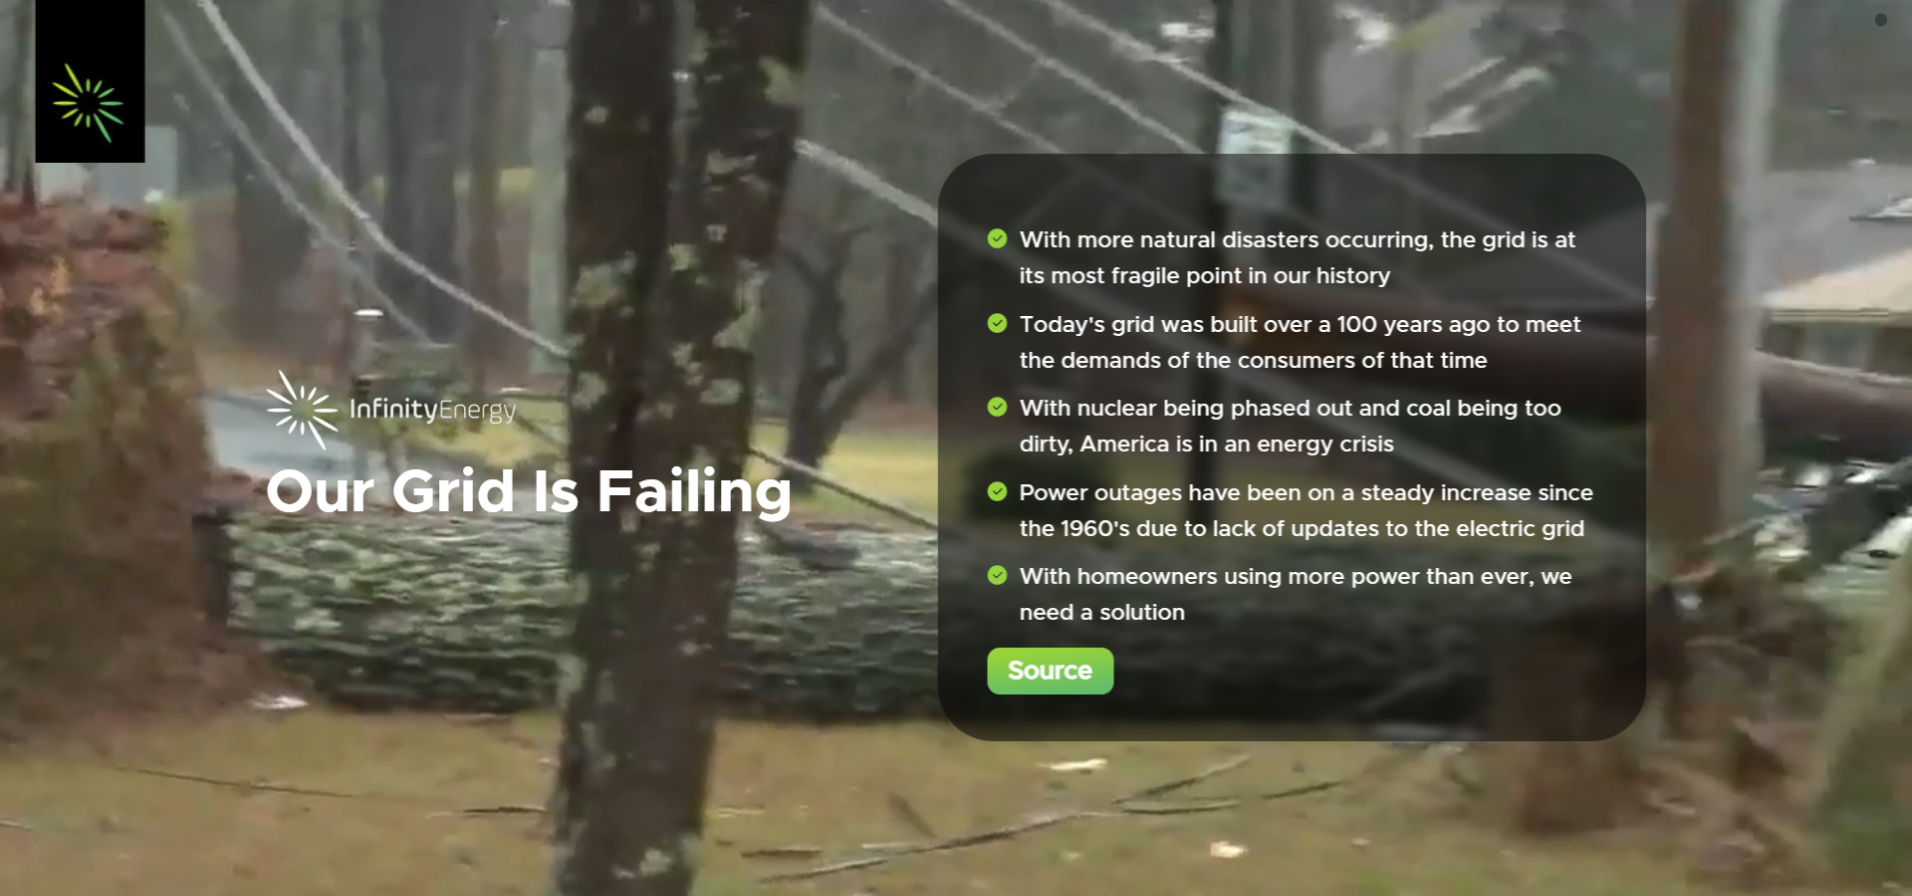
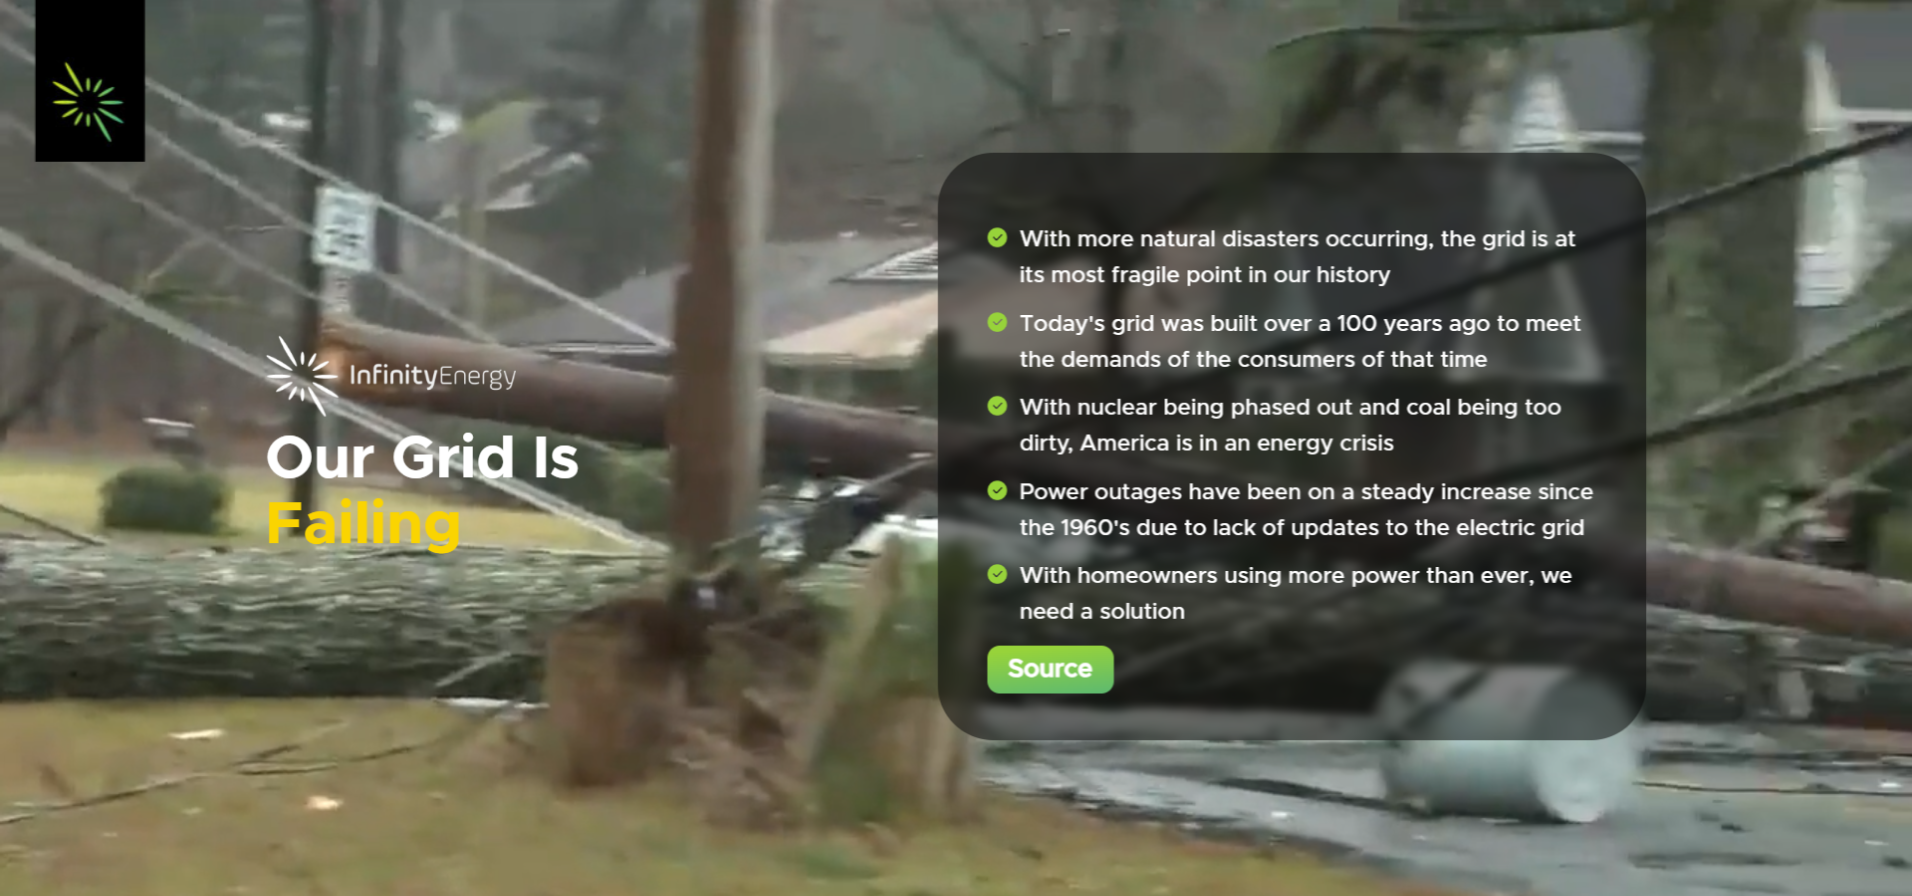
ny-lease-done

diff --git a/proposal-html/mainsolar-ny-lease -backup.html b/proposal-html/mainsolar-ny-lease -backup.html
@@ -63,36 +63,34 @@
     <div class="swiper-wrapper">
       
       <div data-hash="slide1" class="swiper-slide">
-         <section class="slide-8 overflow-hidden nyserda-ny">
+         <section class="slide-19 overflow-hidden has-vector-bg">
             <img class="fav-logo" src="images/fav-logo.jpg" alt="fav-logo">
             <div class="container">
                <div class="row">
-                  <div class="col-lg-8 DownToUp" style="margin:auto;">
-                     <h1 class="main-heading text-xl font-bold text-white text-center mb-20">NYSERDA</h1>
-                     <div class="card card-s2 BottomToTop">
-                        <div class="bg-white card-inner">
-                           <div class="row mb-20">
-                              <div class="col-md-12">
-                                 <img src="images/infinity-energy.png" alt="logo" style="max-width: 200px;">
-                                 <p class="mb-10">
-                                    Provide resources, expertise, and objective information for energy in the state of New York.
-                                 </p>
-                                    <a href="javascript:void(0)" class="title text-black open-popup" data-target="cmodal-nyserda">
-                                       <svg xmlns="http://www.w3.org/2000/svg" viewBox="0 0 20 20" fill="currentColor" class="w-15">
-                                          <path fill-rule="evenodd" d="M10.868 2.884c-.321-.772-1.415-.772-1.736 0l-1.83 4.401-4.753.381c-.833.067-1.171 1.107-.536 1.651l3.62 3.102-1.106 4.637c-.194.813.691 1.456 1.405 1.02L10 15.591l4.069 2.485c.713.436 1.598-.207 1.404-1.02l-1.106-4.637 3.62-3.102c.635-.544.297-1.584-.536-1.65l-4.752-.382-1.831-4.401z" clip-rule="evenodd"></path>
-                                       </svg>                                  
-                                       Who is NYSERDA
-                                    </a>
-                                    <br>
-                                    <a href="javascript:void(0)" class="title open-popup text-black" data-target="cmodal-sbc">
-                                       <svg xmlns="http://www.w3.org/2000/svg" viewBox="0 0 20 20" fill="currentColor" class="w-15">
-                                          <path fill-rule="evenodd" d="M10.868 2.884c-.321-.772-1.415-.772-1.736 0l-1.83 4.401-4.753.381c-.833.067-1.171 1.107-.536 1.651l3.62 3.102-1.106 4.637c-.194.813.691 1.456 1.405 1.02L10 15.591l4.069 2.485c.713.436 1.598-.207 1.404-1.02l-1.106-4.637 3.62-3.102c.635-.544.297-1.584-.536-1.65l-4.752-.382-1.831-4.401z" clip-rule="evenodd"></path>
-                                       </svg>                                  
-                                      NYSERDA charge on Electrical Bill
-                                    </a>
-                                 
-                                 
-                              </div>
+                  <div class="col-lg-12 col about-container RightToLeftDelay1 bg-white">
+                     <h1 class="text-xl text-center font-extralight ZoomInDelay3 "> <span class="text-secondary font-bold">NYSERDA</span></h1>
+                     <p class="text-center">
+                        Provide resources, expertise, and objective information for energy in the state of New York.
+                     </p>
+                     <div class="referral-persons row ">
+                        <div class="col-md-6 ">
+                           <div class="person d-flex bg-gradient-s1 LeftToRightDelay3" style="translate: none; rotate: none; scale: none; transform: translate(0px, 0px); opacity: 1;">
+                              <a href="javascript:void(0)" class="title text-black open-popup" data-target="cmodal-nyserda">
+                                 <svg xmlns="http://www.w3.org/2000/svg" viewBox="0 0 20 20" fill="currentColor" class="w-5 h-5">
+                                    <path fill-rule="evenodd" d="M10.868 2.884c-.321-.772-1.415-.772-1.736 0l-1.83 4.401-4.753.381c-.833.067-1.171 1.107-.536 1.651l3.62 3.102-1.106 4.637c-.194.813.691 1.456 1.405 1.02L10 15.591l4.069 2.485c.713.436 1.598-.207 1.404-1.02l-1.106-4.637 3.62-3.102c.635-.544.297-1.584-.536-1.65l-4.752-.382-1.831-4.401z" clip-rule="evenodd"></path>
+                                 </svg>                                  
+                                 Who is NYSERDA
+                              </a>
+                           </div>
+                        </div>
+                        <div class="col-md-6 ">
+                           <div class="person d-flex bg-gradient-s1 RightToLeftDelay4" style="translate: none; rotate: none; scale: none; transform: translate(0px, 0px); opacity: 1;">
+                              <a href="javascript:void(0)" class="title open-popup text-black" data-target="cmodal-sbc">
+                                 <svg xmlns="http://www.w3.org/2000/svg" viewBox="0 0 20 20" fill="currentColor" class="w-5 h-5">
+                                    <path fill-rule="evenodd" d="M10.868 2.884c-.321-.772-1.415-.772-1.736 0l-1.83 4.401-4.753.381c-.833.067-1.171 1.107-.536 1.651l3.62 3.102-1.106 4.637c-.194.813.691 1.456 1.405 1.02L10 15.591l4.069 2.485c.713.436 1.598-.207 1.404-1.02l-1.106-4.637 3.62-3.102c.635-.544.297-1.584-.536-1.65l-4.752-.382-1.831-4.401z" clip-rule="evenodd"></path>
+                                 </svg>                                  
+                                NYSERDA charge on Electrical Bill
+                              </a>
                            </div>
                         </div>
                      </div>
@@ -326,47 +324,52 @@
             </div>
          </section>
       </div>
-      
       <div data-hash="slide8" class="swiper-slide">
-         <section class="slide-7 bg-black overflow-hidden rate-hikes">
+         <section class="slide-8 overflow-hidden has-vector-bg">
             <img class="fav-logo" src="images/fav-logo.jpg" alt="fav-logo">
             <div class="container">
                <div class="row">
-                  <div class="col-md-5 RightToLeft">
-                     
-                     <img class="logo ZoomIn" src="images/logo-light.png" alt="Infinity-home" style="max-width: 220px;
-                     ">
-                     <h1 class="main-heading text-xl font-bold text-white text-left">Reasons For<br><span class="text-yellow"><span data-slate-string="true">  Rate Hikes</span></span></h1>  
+                  <div class="col-lg-5 LeftToRight">
+                     <h1 class="main-heading text-xl font-bold text-white">Reasons For Rate Hikes</h1>
                   </div>
-                  <div class="col-md-7">
-                     <div class="card-black-trans RightToLeft">
-                        <ul class="checklisting text-white">
-                          <li class="BottomToTopDelay1">
-                             Increase in fuel costs for power generation.
-                          </li>
-                          <li class="BottomToTopDelay2">
-                             Infrastructure upgrades to improve service.
-                          </li>
-                          <li class="BottomToTopDelay3">
-                             Regulatory changes that require higher standards.
-                          </li>
-                          <li class="BottomToTopDelay4">
-                             Increased cost of transmission and distribution.
-                          </li>
-                          <li class="BottomToTopDelay5">
-                             Taxes or fees imposed by local authorities.
-                          </li>
-                          <li class="BottomToTopDelay6">
-                             Increase in renewable energy sources.
+                  <div class="col-lg-7">
+                     <div class="card card-s2 BottomToTop">
+                        <div class="bg-white card-inner">
+                           <div class="row">
+                              <div class="col-md-12">
+                                 <div class="price-list text-sm font-bold">
+                               
+                                  <ul class="checklisting">
+                                    <li class="BottomToTopDelay1">
+                                       Increase in fuel costs for power generation.
+                                    </li>
+                                    <li class="BottomToTopDelay2">
+                                       Infrastructure upgrades to improve service.
+                                    </li>
+                                    <li class="BottomToTopDelay3">
+                                       Regulatory changes that require higher standards.
+                                    </li>
+                                    <li class="BottomToTopDelay4">
+                                       Increased cost of transmission and distribution.
+                                    </li>
+                                    <li class="BottomToTopDelay5">
+                                       Taxes or fees imposed by local authorities.
+                                    </li>
+                                    <li class="BottomToTopDelay6">
+                                       Increase in renewable energy sources.
 
-                          </li>
-                          <li class="BottomToTopDelay6">
-                             Investment in energy efficiency initiatives.
-                          </li>
-                          <li class="BottomToTopDelay6">
-                             External economic factors, such as inflation.
-                          </li>
-                        </ul>
+                                    </li>
+                                    <li class="BottomToTopDelay6">
+                                       Investment in energy efficiency initiatives.
+                                    </li>
+                                    <li class="BottomToTopDelay6">
+                                       External economic factors, such as inflation.
+                                    </li>
+                                  </ul>
+                                 </div>
+                              </div>
+                           </div>
+                        </div>
                      </div>
                   </div>
                </div>
@@ -411,7 +414,7 @@
                   
                     <div class="swiper-slide slide-thumb">
                         <a href="javascript:void(0);">
-                            <img src="images/thumb/nyserda-new-ny.png"/>
+                            <img src="images/thumb/ny-lease-nyserda.png"/>
                             <span class="slide-name">Slide 1</span>
                         </a>
                     </div>
@@ -454,7 +457,7 @@
                     </div>
                     <div class="swiper-slide">
                      <a href="javascript:void(0);">
-                        <img src="images/thumb/hikes-new.png"/>
+                        <img src="images/thumb/ny-lease-reasons.png"/>
                         <span class="slide-name">Slide 8</span>
                      </a>
                  </div>

diff --git a/proposal-html/mainsolar-ny.html b/proposal-html/mainsolar-ny.html
@@ -234,7 +234,9 @@
             <div class="container">
                <div class="row">
                   <div class="col-lg-5 LeftToRight">
-                     <h1 class="main-heading text-xl font-bold text-white">Master Elite Roofers</h1>
+                     <img class="logo ZoomIn" src="images/logo-light.png" alt="Infinity-home" style="max-width: 220px;
+                     ">
+                     <h1 class="main-heading text-xl font-bold text-white text-left">Master Elite <br><span class="text-yellow"><span data-slate-string="true">Roofers</span></span></h1>
                   </div>
                   <div class="col-lg-7">
                      <div class="card card-s2 BottomToTop">
@@ -458,7 +460,7 @@
                      
                      <img class="logo ZoomIn" src="images/logo-light.png" alt="Infinity-home" style="max-width: 220px;
                      ">
-                     <h1 class="main-heading text-xl font-bold text-white text-left">Our Grid Is Failing</h1>
+                     <h1 class="main-heading text-xl font-bold text-white text-left">Our Grid Is<br><span class="text-yellow"><span data-slate-string="true"> Failing</span></span></h1>  
                   </div>
                   <div class="col-md-7">
                      <div class="card-black-trans RightToLeft">
@@ -768,7 +770,7 @@
                     </div>
                     <div class="swiper-slide slide-thumb">
                         <a href="javascript:void(0);">
-                            <img src="images/thumb/ny-roofers.png"/>
+                            <img src="images/thumb/roofing-new.png">
                             <span class="slide-name">Slide 5</span>
                         </a>
                     </div>

diff --git a/proposal-html/css/style-web.css b/proposal-html/css/style-web.css
@@ -333,6 +333,9 @@ a {
 .w-100{
    width: 100%;
 }
+.w-15{
+   width: 15px;
+}
 
 @media (min-width:992px) {
    .hideondesktop {
@@ -5384,6 +5387,17 @@ body .swiper-pagination-progressbar .swiper-pagination-progressbar-fill {
    background-color: #6060609c !important;
    background-blend-mode: multiply;
 }
+.rate-hikes{
+   background-image: url("../images/rate-hikes.jpg");
+   background-color: #6060609c !important;
+   background-blend-mode: multiply;
+   background-position: top;
+}
+.nyserda-ny{
+   background-image: url("../images/nyserda-ny.jpg");
+   background-color: #6060609c !important;
+   background-blend-mode: multiply;
+}
 .look-forward{
    background-image: url("../images/lookforward-bg.jpg")!important;
    background-color: #c4c4c4 !important;
@@ -5906,7 +5920,7 @@ body .swiper .slide-32 .main-heading {
 .agenda a:hover{
    color: var(--secondary) !important;
 }
-.grid-failing .card-black-trans{
+.grid-failing .card-black-trans, .rate-hikes .card-black-trans{
    
    padding: 40px;
 }
